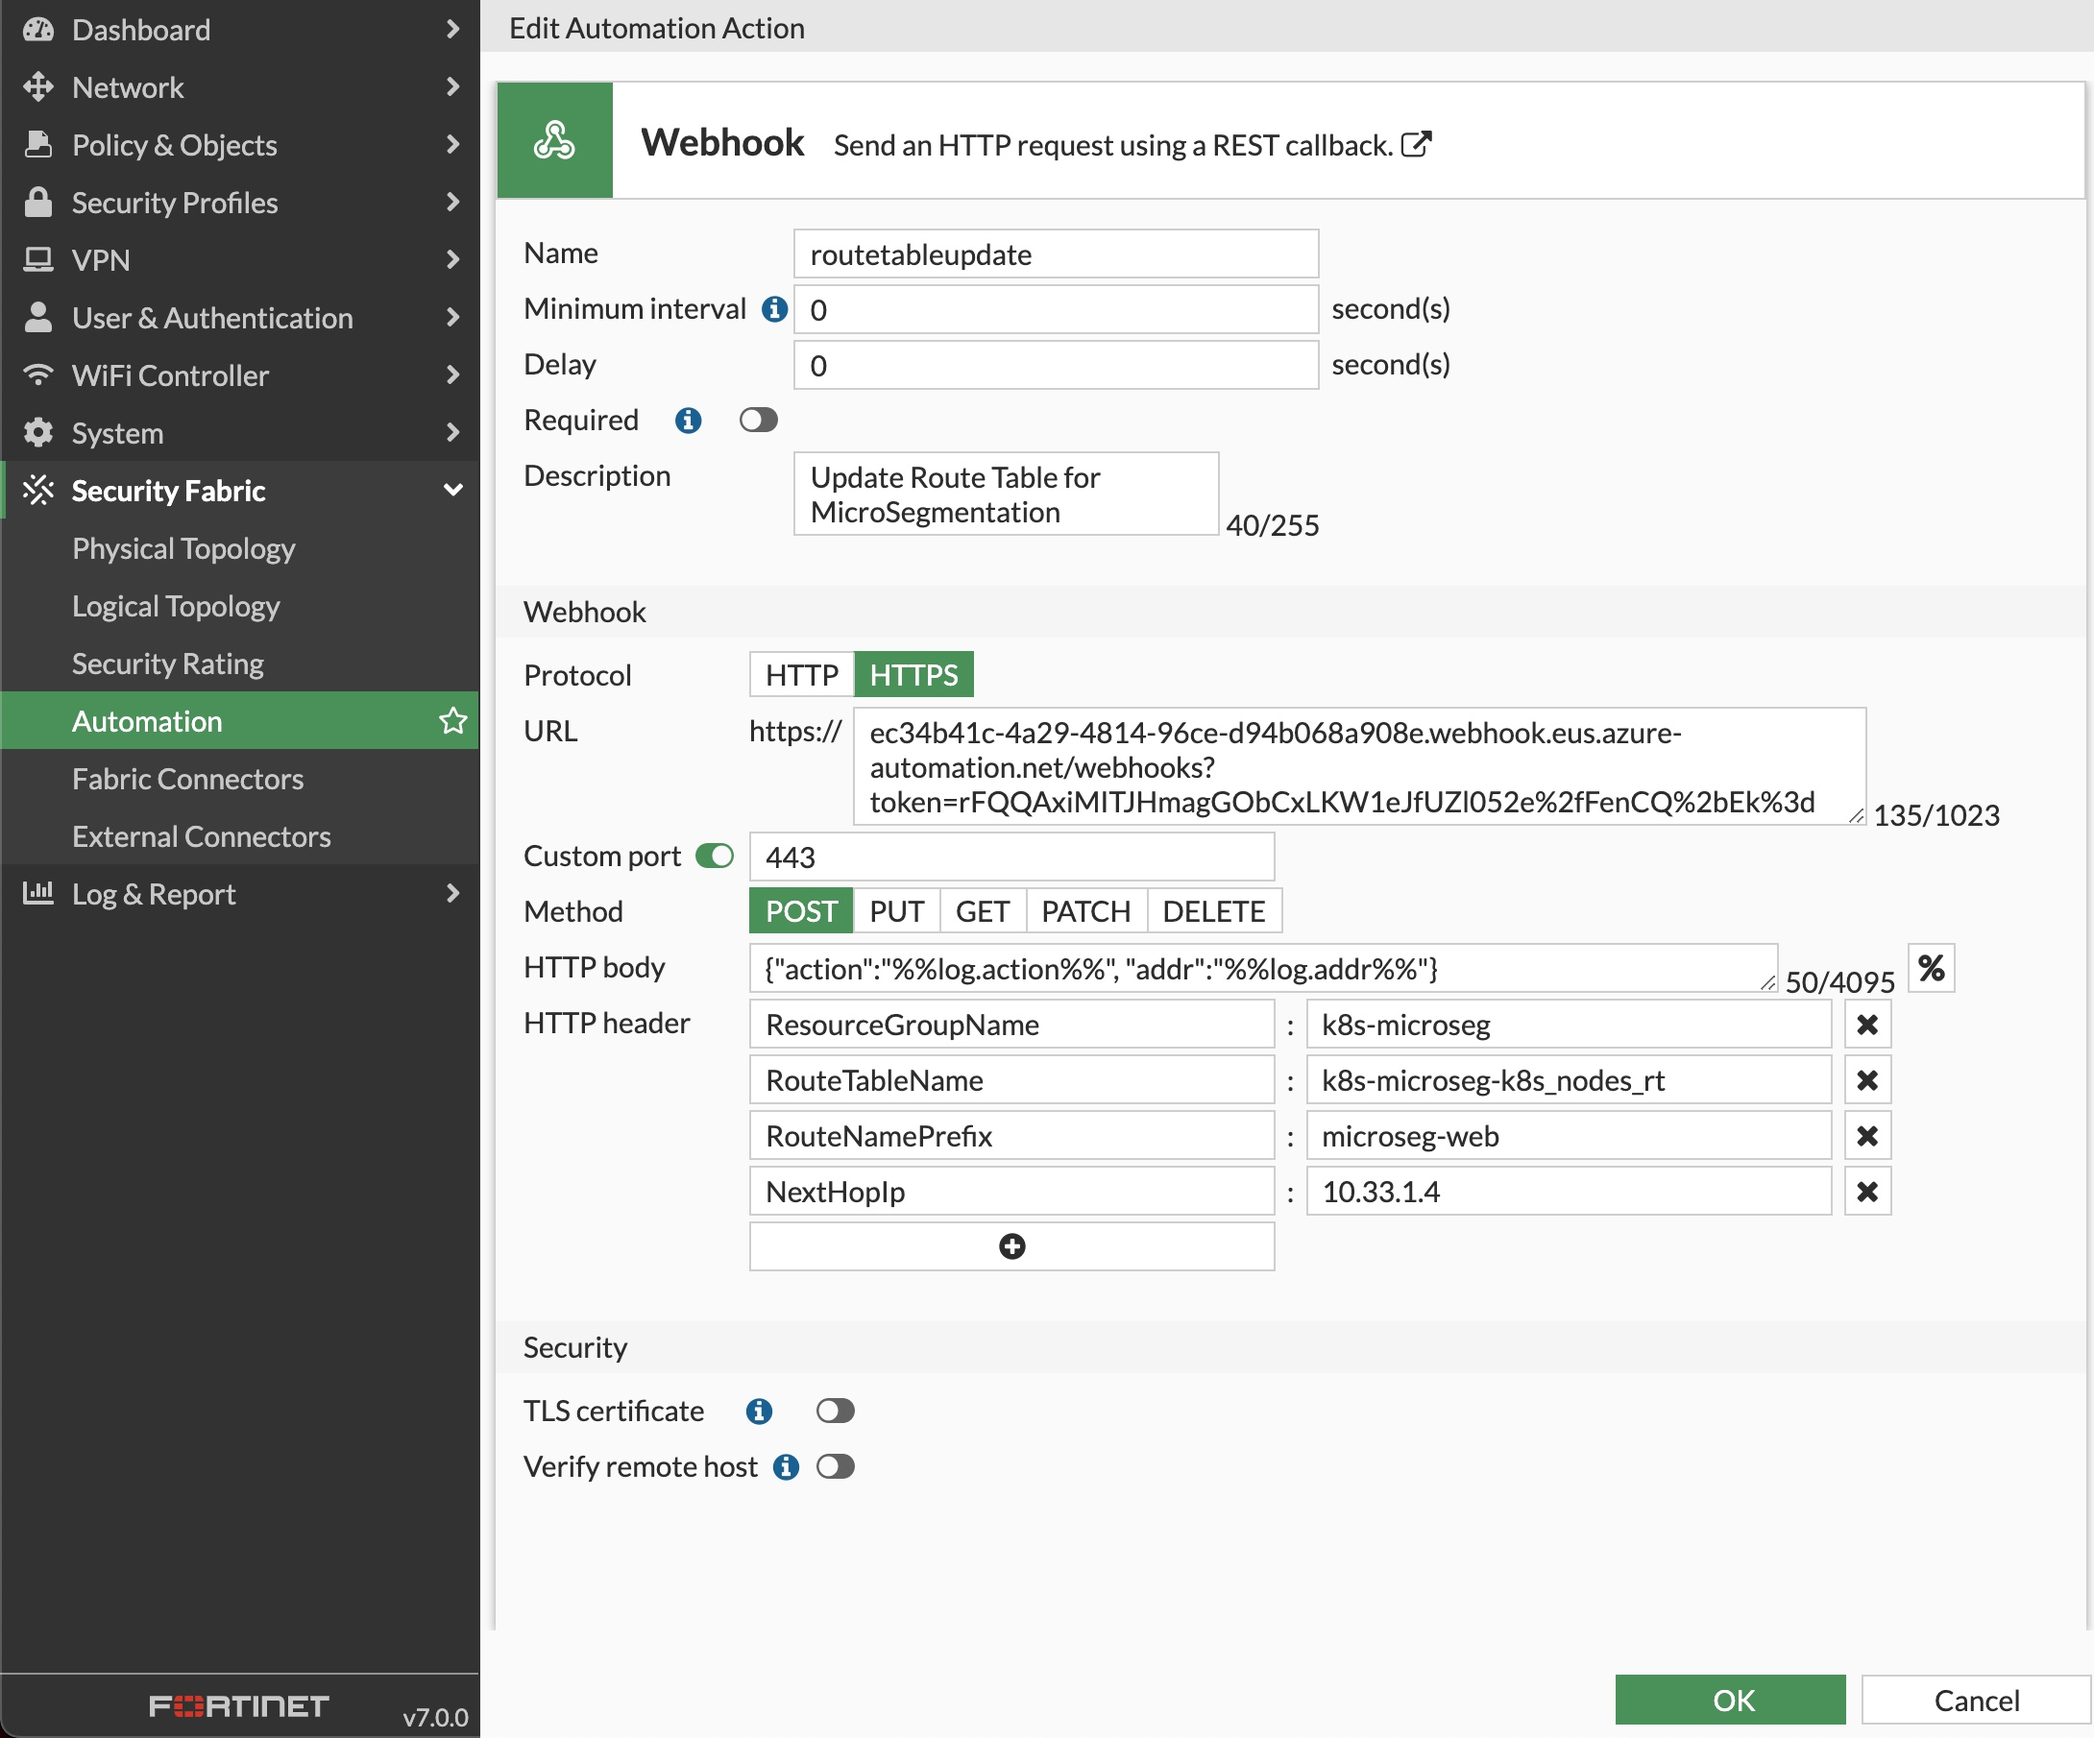
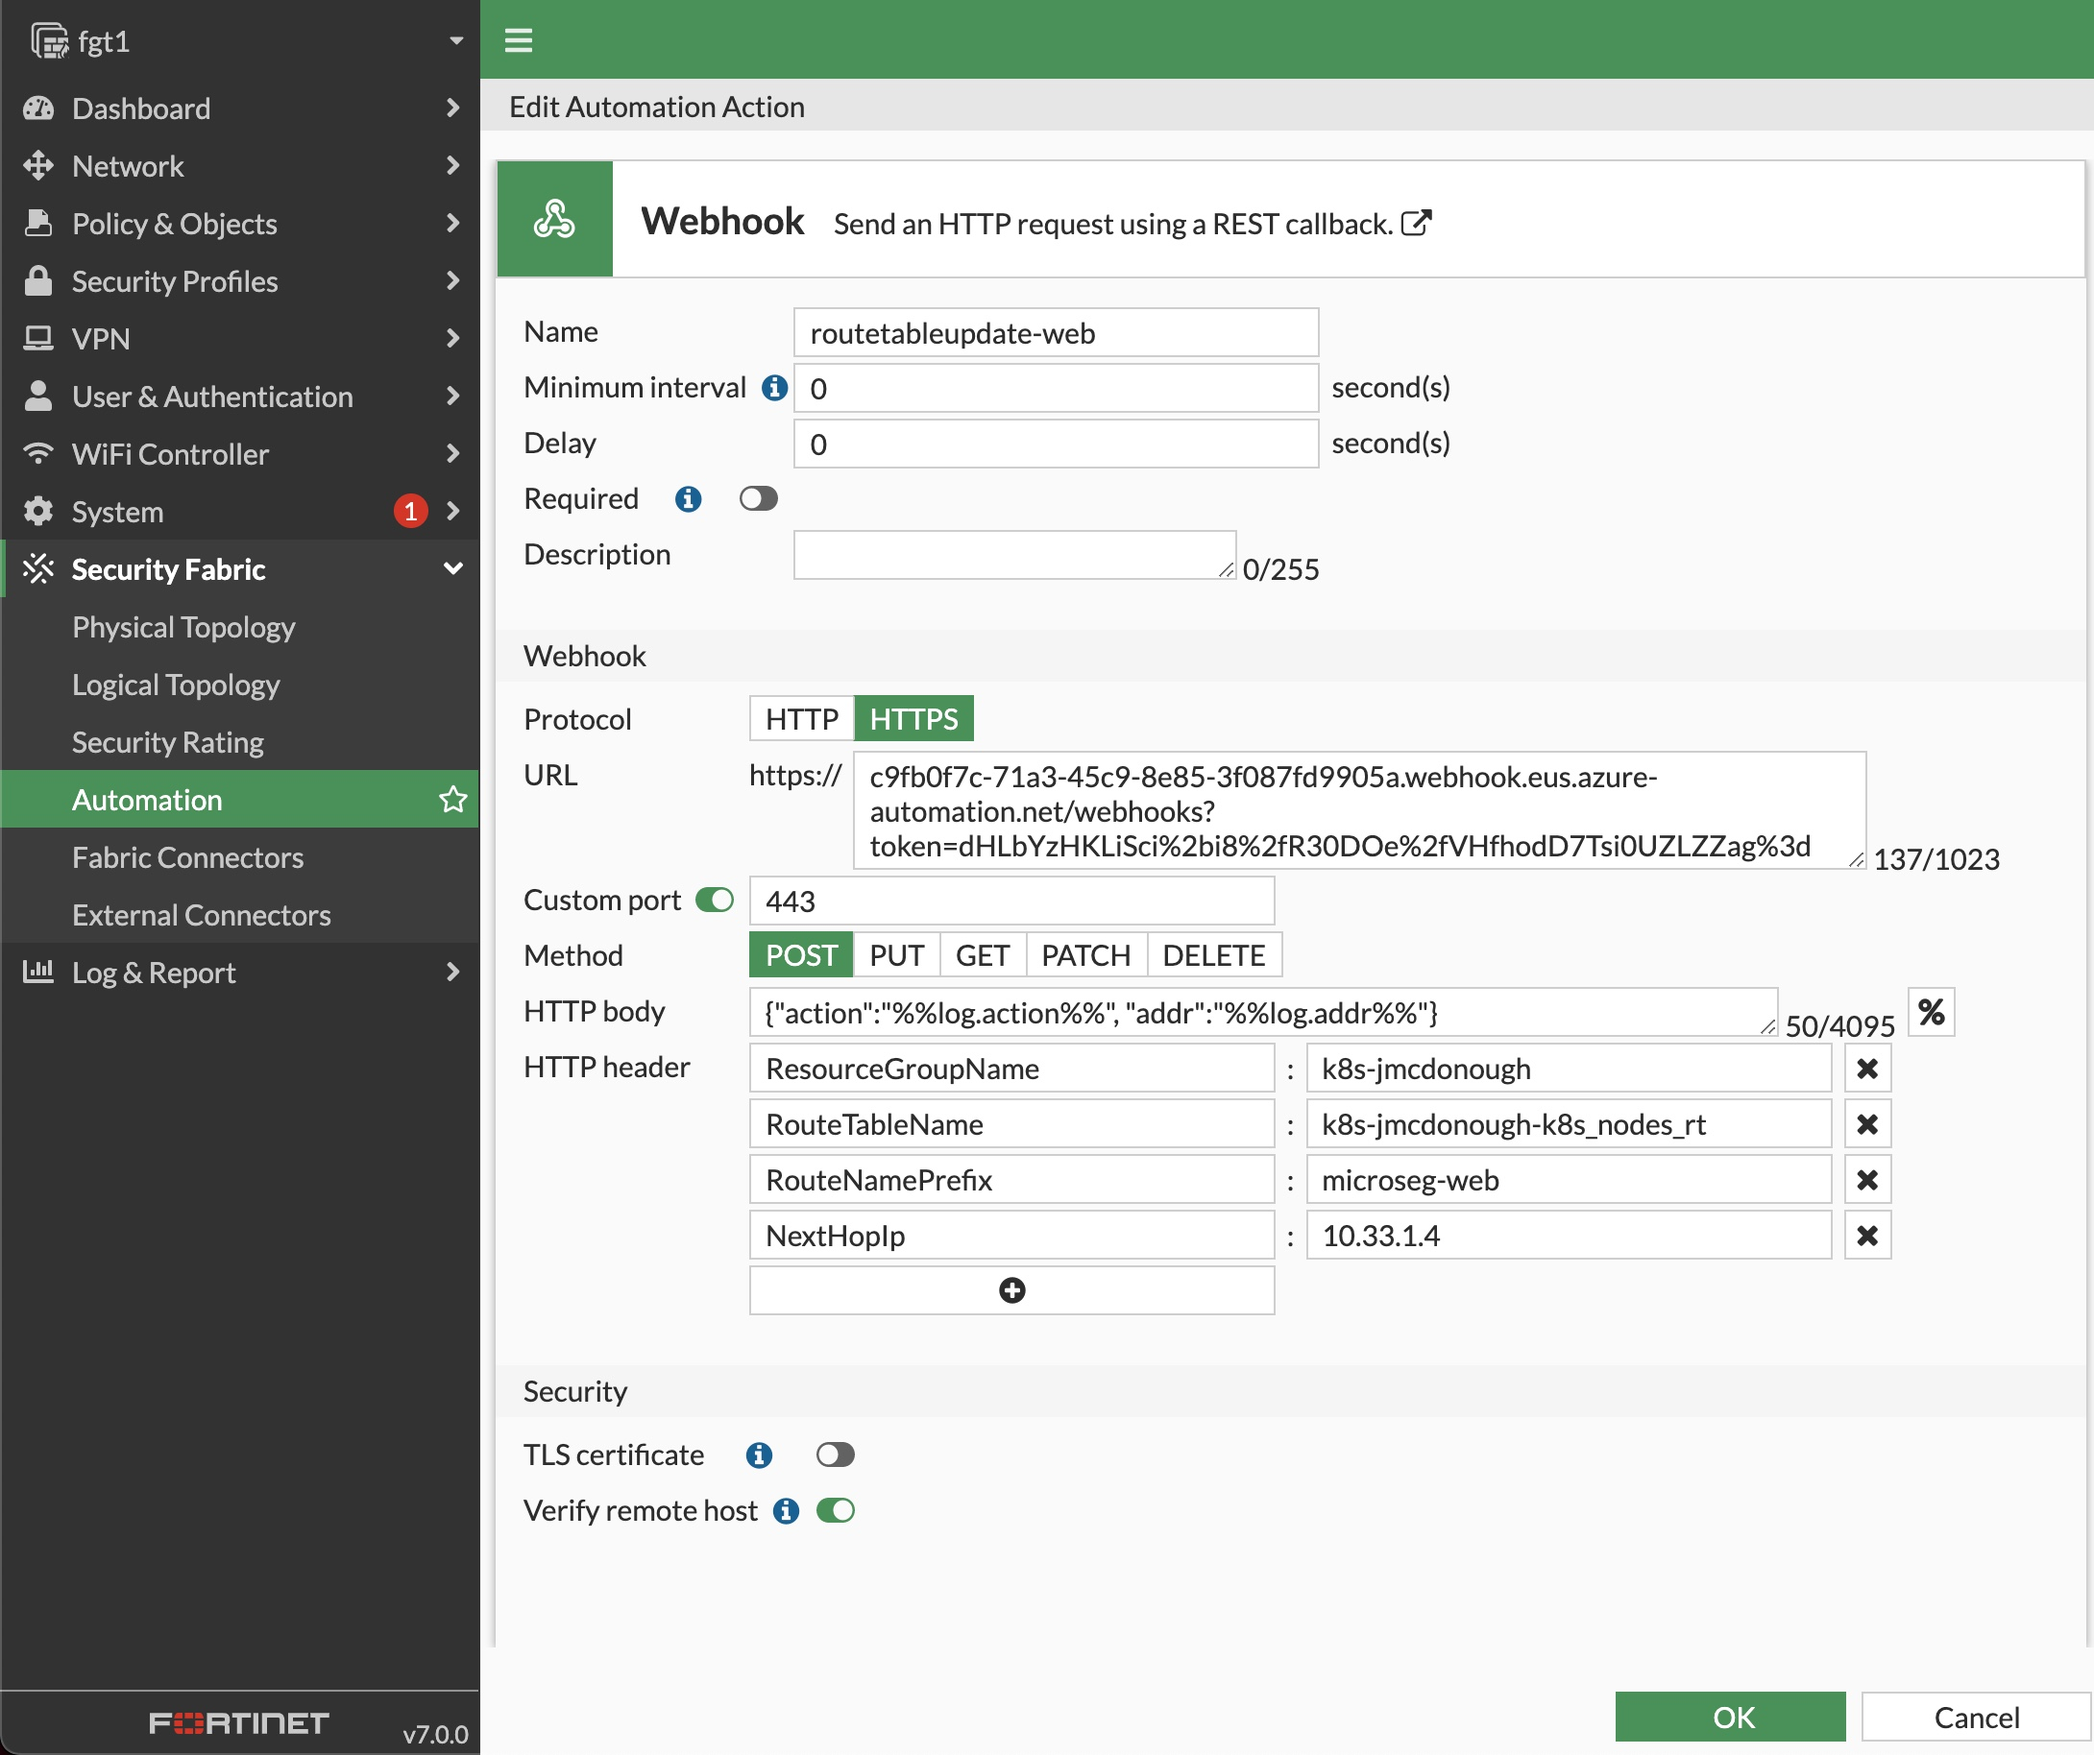
image and instruction updates

diff --git a/README.md b/README.md
@@ -119,7 +119,7 @@ At the end of this step environment will be similar to the one pictured below
 
     ```bash
     cd ..
-    ./aks-engine deploy --dns-prefix k8smicroseg --resource-group $env:RESOURCE_GROUP_NAME --location eastus --api-model ./AzureMicroSeg/Terraform/aks-calico-azure.json --auto-suffix
+    ./aks-engine deploy --dns-prefix k8smicroseg --resource-group $env:RESOURCE_GROUP_NAME --location eastus --api-model ./Terraform/aks-calico-azure.json --auto-suffix
     ```
 
 1. Verify that the deployment is successful by listing the K8S nodes. To access the cluster, copy the kubeconfig file that was generated during the previous step, to the ~/.kube directory.
@@ -149,7 +149,7 @@ At the end of this step environment will be similar to the one pictured below
   * Create a clusterrole
 
     ```bash
-    kubectl apply -f ./AzureMicroSeg/K8S/fgt-k8s-connector.yaml
+    kubectl apply -f ./K8S/fgt-k8s-connector.yaml
     ```
 
   * Create a clusterrolebinding
@@ -170,7 +170,7 @@ At the end of this step environment will be similar to the one pictured below
 1. Deploy two pods, one tagged with the label app=web and the other with the label app=db. Use the provided example web-db-deployment.yaml
 
     ```bash
-    kubectl apply -f ./AzureMicroSeg/K8S/web-db-deployment.yaml
+    kubectl apply -f ./K8S/web-db-deployment.yaml
     ```
 
     ![pods](images/k8s-pods.jpg)
@@ -285,27 +285,33 @@ All of the steps can be performed in the Azure Portal. However, the commands sho
 
     * Repeat the same for the [***db*** pod Trigger](./FortiGate/routetableupdate-trigger-db.cfg)
 
-    * Create [Action](./FortiGate/routetableupdate-action.cfg)
-        * Webhook
-        * Body
-        * Headers
+    * Create [***web*** pod Action](./FortiGate/routetableupdate-action-web.cfg)
+        * Webhook <- Created in the Azure Automation setup
+        * Body <- send the action (add or remove) and the IP address `{"action":"%%log.action%%", "addr":"%%log.addr%%"}`
+        * Headers <- ResourceGroupName, RouteTableName, RouteNamePrefix, NextHopIp
+
         ![FortiGate Automation Stitch Action](images/fgt-automation-stitch-action.jpg)
-    * Create [Stitch](./FortiGate/routetableupdate-stitch.cfg)
+
+    * Repeat for [***db*** pod Action](./FortiGate/routetableupdate-action-db.cfg)
+
+    * Create [***web*** pod Stitch](./FortiGate/routetableupdate-stitch-web.cfg)
         * Trigger
         * Action
         ![FortiGate Automation Stitch Action](images/fgt-automation-stitch-stitch.jpg)
+
+    * Repeat for [***db*** pod Stitch](./FortiGate/routetableupdate-stitch-db.cfg)
 
 1. Delete the DB and Web pods to force their replacement. Check if the FGT detects an address change and triggers the automation Stich.
 You can use the commands **diagnose debug  application autod -1** to debug the stitch.
 
     ![podsaddressroute](images/k8s-pods-routeadded.jpg)
 
-1. Access the web POD, use curl and try to connect to the DB Pod from the web POD. Example below (replace with your own POD name and ip address)
+1. Access the web POD, use curl and try to connect to the DB Pod from the web POD. Example below (replace POD name and IP address)
 
     ```bash
     kubectl get pods -o wide
     kubectl exec --tty --stdin web-deployment-66bf8c979c-ql2kn -- /bin/bash
-    while true; do curl -v http://10.33.3.29:8080; sleep 2; done;
+    curl -v http://10.33.3.29:8080
     ```
 
     ![podsaddresscurl](images/k8s-pods-curl.jpg)
@@ -341,7 +347,7 @@ You can use the commands **diagnose debug  application autod -1** to debug the s
     ```bash
     kubectl delete deployment db-deployment
     kubectl delete deployment web-deployment
-    kubectl apply -f web-db-deployment-tolerations.yaml
+    kubectl apply -f ./K8S/web-db-deployment-tolerations.yaml
     ```
 
     * Verify that the two pods are deployed in two different nodes. use the command **kubectl get pods -o wide**
@@ -356,5 +362,3 @@ You can use the commands **diagnose debug  application autod -1** to debug the s
     * What is your conclusion ?
 
  **************
-
-## Chapter 5 [Optional] - Calico policy to control traffic inside the cluster
